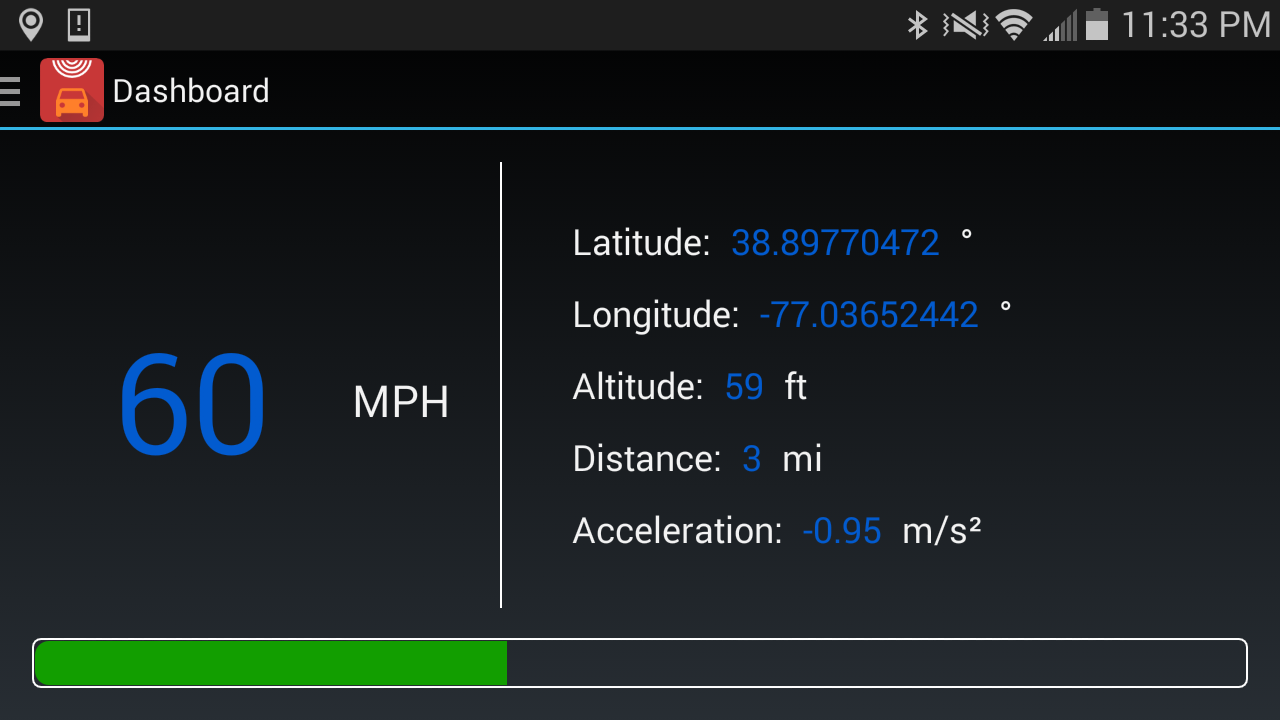
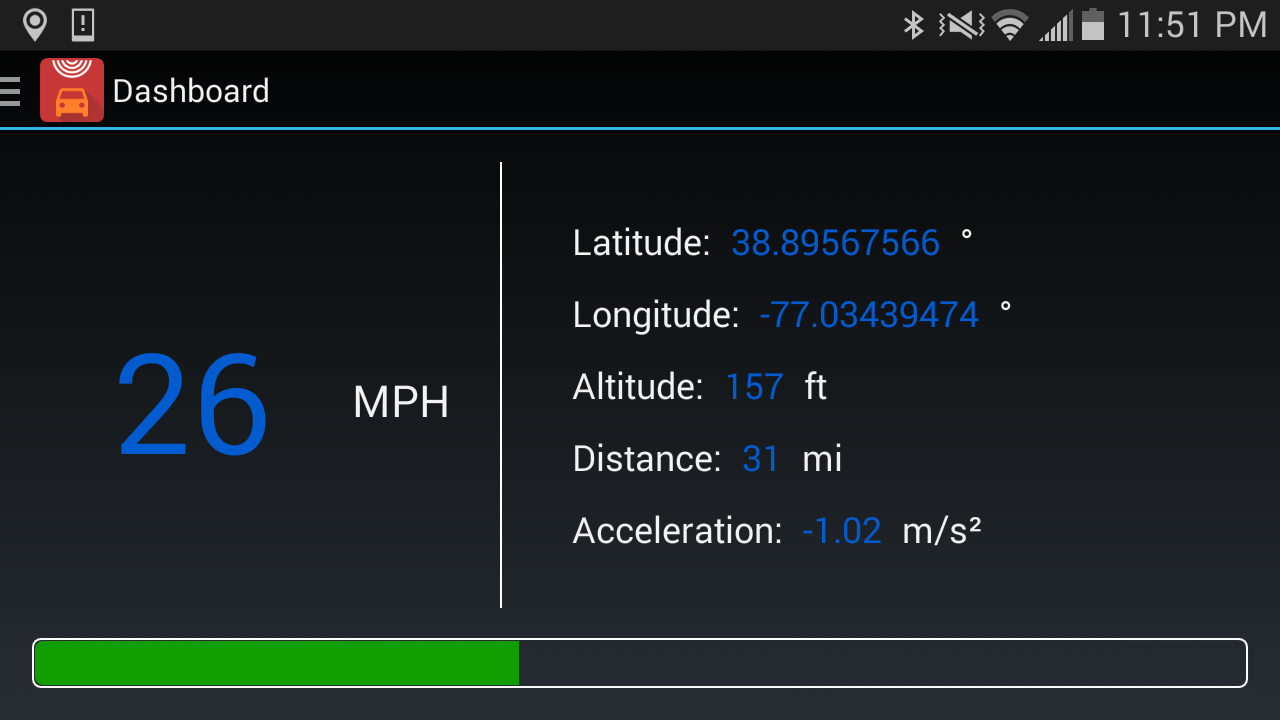
Fixed issue with accel bar widget radius

diff --git a/README.md b/README.md
@@ -17,7 +17,7 @@ GPS Auto Dashboard
 Those who wish to run the app without building may follow these set of steps:
 
 <ul>
-<li>Download the APK in the repository: [GPSAutoDash.apk](gps-auto-dashboard.apk).</li>
+<li>Download the APK in the repository: [GPSAutoDash.apk](gps-auto-dashboard.apk)</li>
 <li>Transfer the APK file to your device (preferably the Downloads folder).</li>
 <li>Install the APK on your device by clicking on it in the folder in which you transferred it to.</li>
 </ul>
